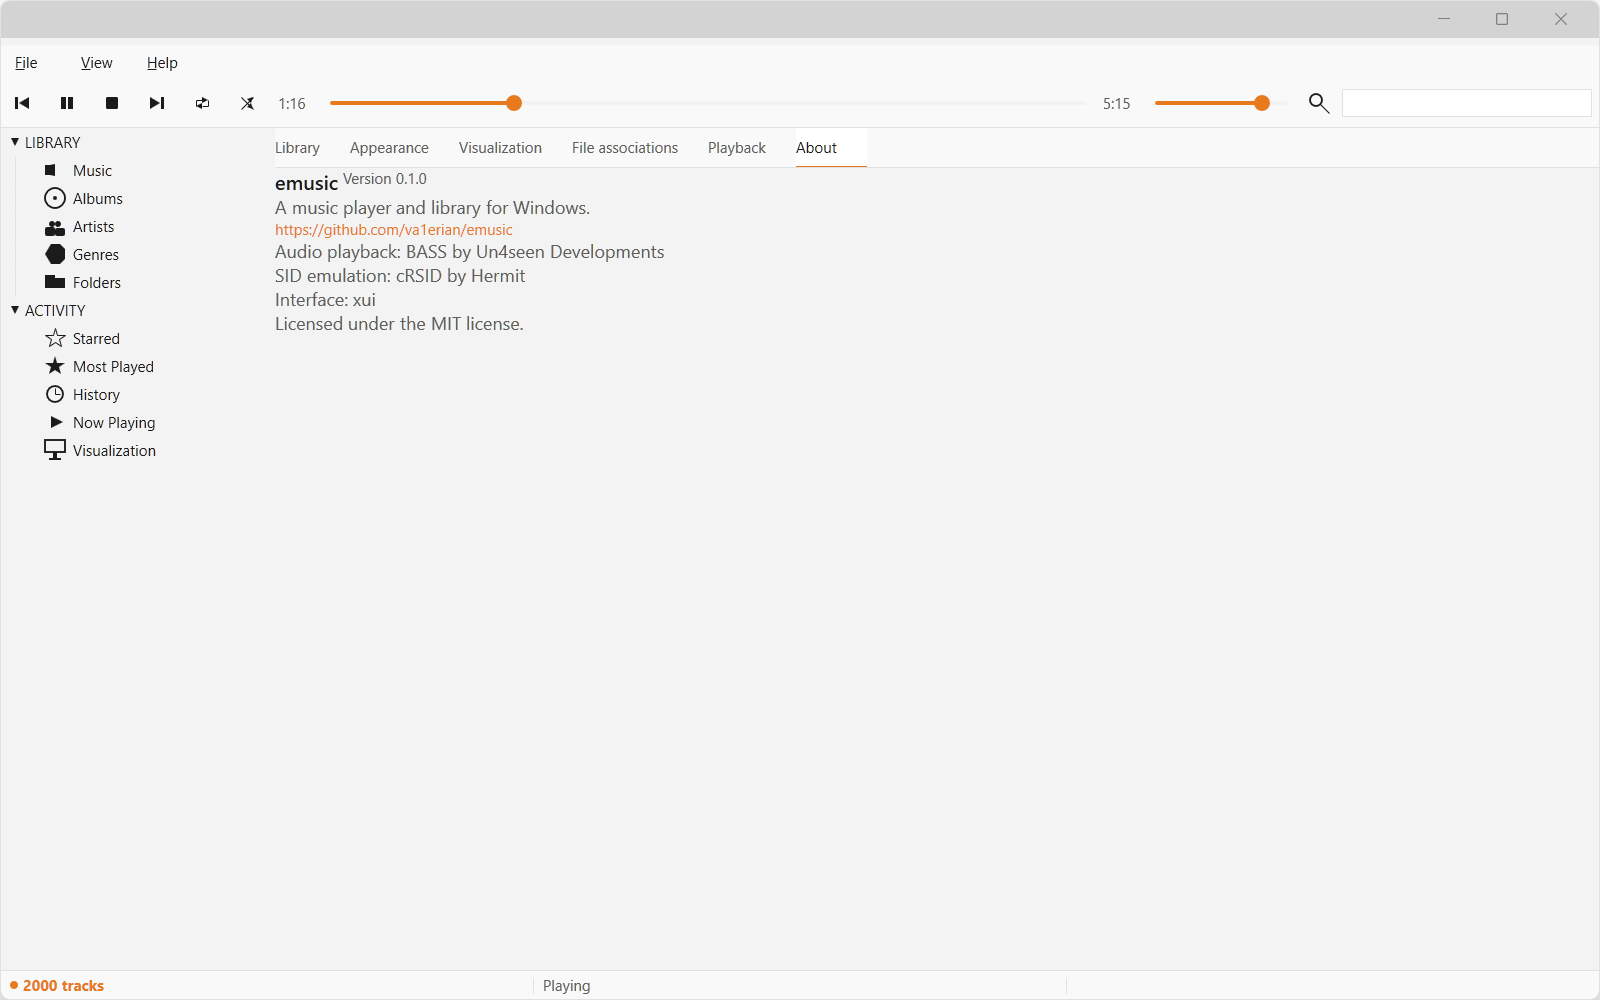
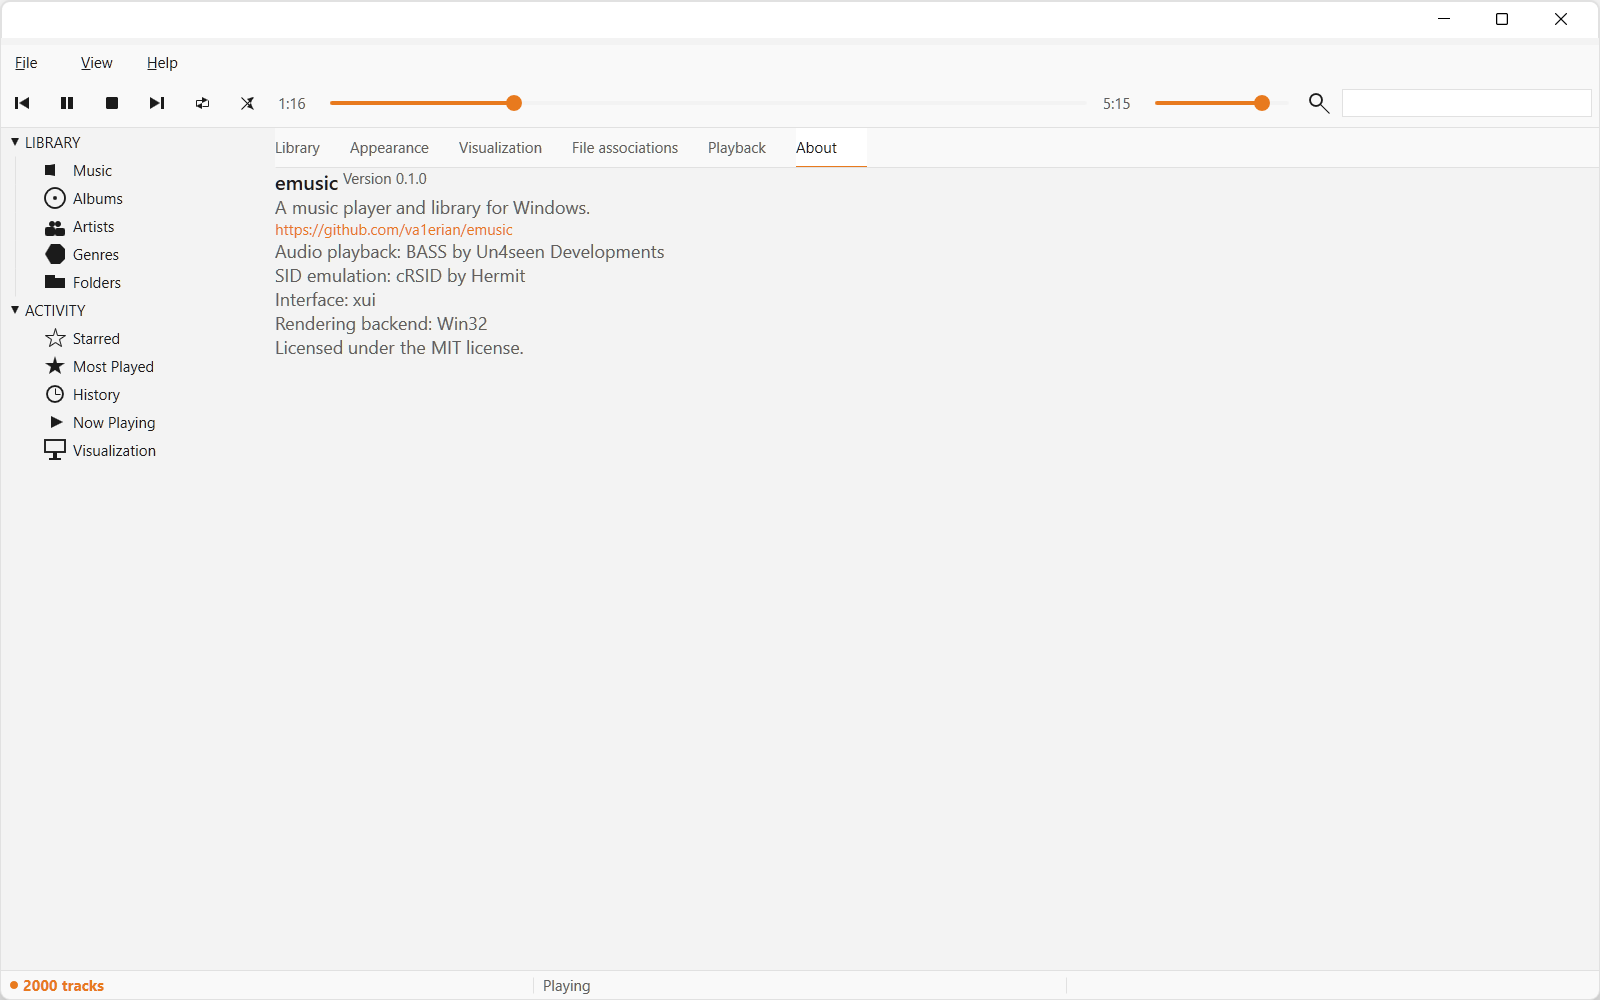
About: show the active rendering backend (#369)
The About page now names the backend the process renders with: Win32 on the native Win32 backend and canvas (software) when the software backend is selected (off Windows, or XUI_BACKEND=canvas). The predicate lives in a small ackend module that main also uses to choose, so the label and the choice cannot drift.

Changed region(s): [[0.0, 0.0, 1.0, 0.062], [0.1562, 0.31, 0.3125, 0.372]]

diff --git a/crates/app/src/backend.rs b/crates/app/src/backend.rs
@@ -1,0 +1,34 @@
+//! The rendering backend this process is running on (#369).
+//!
+//! The binary picks the backend at launch (native `win32` on Windows by
+//! default, the software `canvas` backend elsewhere or when `XUI_BACKEND=canvas`
+//! requests it). The About page shows which one is active; the same predicate
+//! is what [`crate`]'s `main` uses to choose, so the two cannot drift.
+
+/// Whether the software `canvas` backend is active.
+///
+/// `XUI_BACKEND=canvas` requests it. On a build without the `canvas` feature
+/// the request cannot be honoured, so it is ignored (with a warning) and the
+/// native backend is used; off Windows, `canvas` is the only backend.
+pub fn is_canvas() -> bool {
+    if !cfg!(windows) {
+        return true;
+    }
+    let requested = std::env::var("XUI_BACKEND").as_deref() == Ok("canvas");
+    if requested && !cfg!(feature = "canvas") {
+        tracing::warn!(
+            "XUI_BACKEND=canvas but this build has no `canvas` feature; using the native backend"
+        );
+        return false;
+    }
+    requested
+}
+
+/// A short human-readable name for the active backend, for the About page.
+pub fn label() -> &'static str {
+    if is_canvas() {
+        "canvas (software)"
+    } else {
+        "Win32"
+    }
+}

diff --git a/crates/app/src/main.rs b/crates/app/src/main.rs
@@ -96,26 +96,11 @@ fn run_ui(
     let spec = window_spec(1100.0, 720.0);
 
     #[cfg(windows)]
-    if !wants_canvas() {
+    if !emusic::backend::is_canvas() {
         return run_native(spec, config, config_path, ipc, startup, waker, mock);
     }
 
     run_canvas(spec, config, config_path, ipc, startup, waker, mock)
-}
-
-/// Whether the user asked for the software backend via `XUI_BACKEND=canvas`.
-///
-/// On a build without the `canvas` feature the request cannot be honoured, so
-/// it is ignored with a warning and the native backend is used.
-fn wants_canvas() -> bool {
-    let requested = std::env::var("XUI_BACKEND").as_deref() == Ok("canvas");
-    if requested && !cfg!(feature = "canvas") {
-        tracing::warn!(
-            "XUI_BACKEND=canvas but this build has no `canvas` feature; using the native backend"
-        );
-        return false;
-    }
-    requested
 }
 
 /// Builds the app's backends (real or mock) and constructs the shell around

diff --git a/crates/app/src/views/settings/about.rs b/crates/app/src/views/settings/about.rs
@@ -23,12 +23,14 @@ pub fn build(ui: &Ui<Msg>, bounds: Rect) -> FlowText<Msg> {
             open_url(REPOSITORY);
             None
         }))
-        .run(Run::weak(
+        .run(Run::weak(format!(
             "\n\nAudio playback: BASS by Un4seen Developments\n\
              SID emulation: cRSID by Hermit\n\
              Interface: xui\n\
+             Rendering backend: {}\n\
              Licensed under the MIT license.",
-        ))
+            crate::backend::label()
+        )))
 }
 
 /// Opens `url` in the default browser (a `FlowText` link cannot carry a

diff --git a/crates/app/src/lib.rs b/crates/app/src/lib.rs
@@ -9,6 +9,7 @@
 //! names no backend type outside `main` and `window`.
 
 pub mod app;
+pub mod backend;
 pub mod dialogs;
 pub mod menu;
 pub mod theme;
